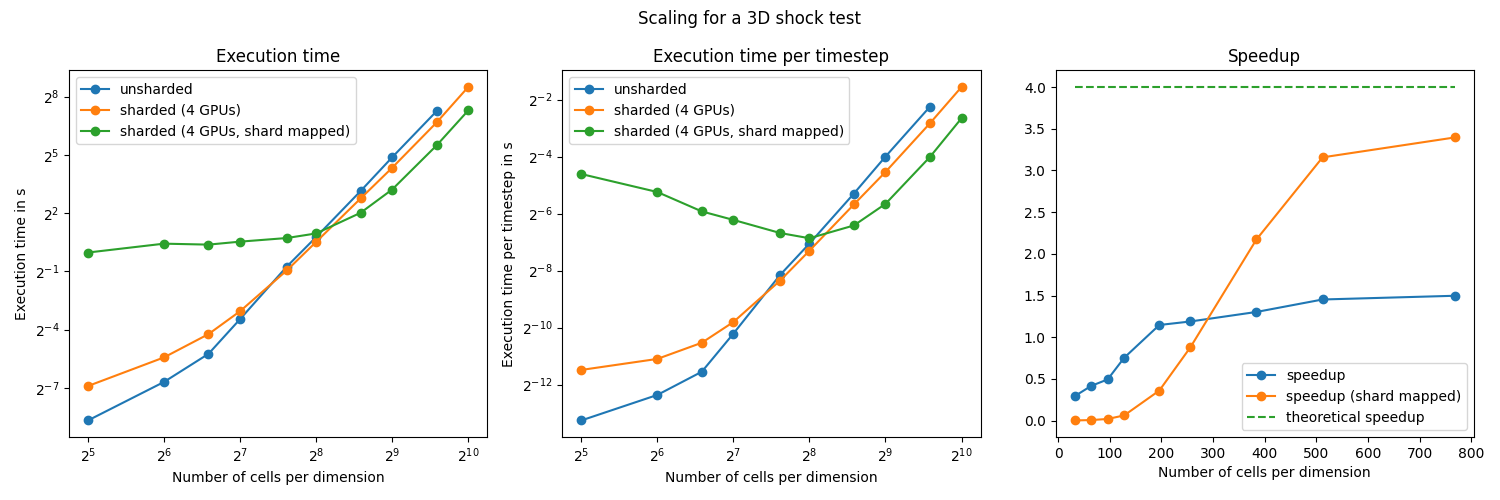
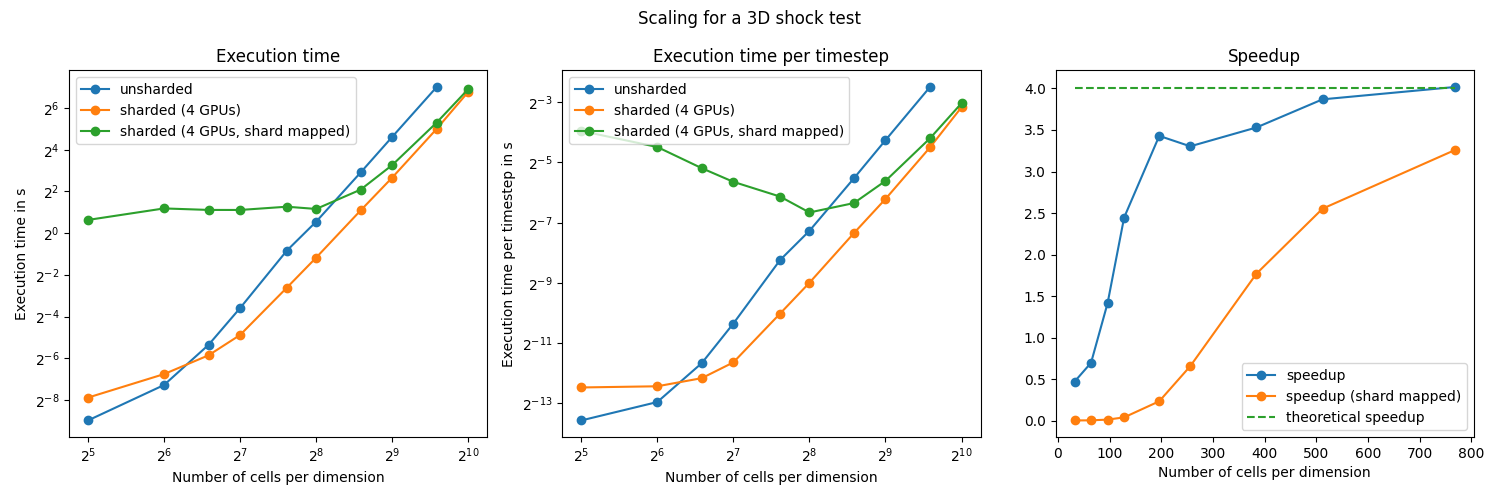
moved to jnp.roll

diff --git a/tinyfluids/jax_tinyfluids/fluid.py b/tinyfluids/jax_tinyfluids/fluid.py
@@ -339,8 +339,12 @@ def _cfl_time_step(
     # ==================== ↓ cell communication here ↓ ===================
 
     # wave speeds in x direction
-    primitive_state_left = jax.lax.slice_in_dim(primitive_state, 0, -1, axis = X_AXIS)
-    primitive_state_right = jax.lax.slice_in_dim(primitive_state, 1, None, axis = X_AXIS)
+    # primitive_state_left = jax.lax.slice_in_dim(primitive_state, 0, -1, axis = X_AXIS)
+    # primitive_state_right = jax.lax.slice_in_dim(primitive_state, 1, None, axis = X_AXIS)
+
+    primitive_state_left = jnp.roll(primitive_state, shift = 1, axis = X_AXIS)
+    primitive_state_right = primitive_state
+
     max_wave_speed_x = get_max_wave_speeds(
         primitive_state_left,
         primitive_state_right,
@@ -349,8 +353,13 @@ def _cfl_time_step(
     )
 
     # wave speeds in y direction
-    primitive_state_left = jax.lax.slice_in_dim(primitive_state, 0, -1, axis = Y_AXIS)
-    primitive_state_right = jax.lax.slice_in_dim(primitive_state, 1, None, axis = Y_AXIS)
+    # primitive_state_left = jax.lax.slice_in_dim(primitive_state, 0, -1, axis = Y_AXIS)
+    # primitive_state_right = jax.lax.slice_in_dim(primitive_state, 1, None, axis = Y_AXIS)
+
+    primitive_state_left = jnp.roll(primitive_state, shift = 1, axis = Y_AXIS)
+    primitive_state_right = primitive_state
+
+
     max_wave_speed_y = get_max_wave_speeds(
         primitive_state_left,
         primitive_state_right,
@@ -359,8 +368,13 @@ def _cfl_time_step(
     )
 
     # wave speeds in z direction
-    primitive_state_left = jax.lax.slice_in_dim(primitive_state, 0, -1, axis = Z_AXIS)
-    primitive_state_right = jax.lax.slice_in_dim(primitive_state, 1, None, axis = Z_AXIS)
+    # primitive_state_left = jax.lax.slice_in_dim(primitive_state, 0, -1, axis = Z_AXIS)
+    # primitive_state_right = jax.lax.slice_in_dim(primitive_state, 1, None, axis = Z_AXIS)
+
+    primitive_state_left = jnp.roll(primitive_state, shift = 1, axis = Z_AXIS)
+    primitive_state_right = primitive_state
+
+
     max_wave_speed_z = get_max_wave_speeds(
         primitive_state_left,
         primitive_state_right,
@@ -394,20 +408,39 @@ def _evolve_state_along_axis(
     conservative_states = conserved_state_from_primitive(primitive_state, gamma)
 
     # ==================== ↓ cell communication here ↓ ===================
-    primitive_state_left = jax.lax.slice_in_dim(primitive_state, 0, -1, axis = axis)
-    primitive_state_right = jax.lax.slice_in_dim(primitive_state, 1, None, axis = axis)
+    # primitive_state_left = jax.lax.slice_in_dim(primitive_state, 0, -1, axis = axis)
+    # primitive_state_right = jax.lax.slice_in_dim(primitive_state, 1, None, axis = axis)
+
+    # primitive state
+    #          |0|1|2|3|4|
+    # roll 1   |4|0|1|2|3|
+    # roll -1  |1|2|3|4|0|
+
+    primitive_state_left = jnp.roll(primitive_state, shift = 1, axis = axis)
+    primitive_state_right = primitive_state
 
     fluxes = _hll_solver(primitive_state_left, primitive_state_right, gamma, axis)
 
+    # this will have the flux between 1 and 2 at 2
+    # this will have the flux between 2 and 3 at 3
+
+
     # update the conserved variables
-    conserved_change = -1 / grid_spacing * (
-        jax.lax.slice_in_dim(fluxes, 1, None, axis = axis) - 
-        jax.lax.slice_in_dim(fluxes, 0, -1, axis = axis)
+    # conserved_change = -1 / grid_spacing * (
+    #     jax.lax.slice_in_dim(fluxes, 1, None, axis = axis) - 
+    #     jax.lax.slice_in_dim(fluxes, 0, -1, axis = axis)
+    # ) * dt
+
+    # conservative_states = conservative_states.at[
+    #     tuple(slice(1, -1) if i == axis else slice(None) for i in range(conservative_states.ndim))
+    # ].add(conserved_change)
+
+    conserved_change = 1 / grid_spacing * (
+        fluxes - jnp.roll(fluxes, shift = -1, axis = axis)
     ) * dt
 
-    conservative_states = conservative_states.at[
-        tuple(slice(1, -1) if i == axis else slice(None) for i in range(conservative_states.ndim))
-    ].add(conserved_change)
+    conservative_states = conservative_states + conserved_change
+
     # ==================== ↑ cell communication here ↑ ===================
 
     primitive_state = primitive_state_from_conserved(conservative_states, gamma)

diff --git a/tinyfluids/jax_tinyfluids/time_integration.py b/tinyfluids/jax_tinyfluids/time_integration.py
@@ -67,7 +67,7 @@ def _time_integration_inner(
 
         # the wave speed calculation is currently done twice, once
         # for finding dt and once for the state update, which
-        # is not optimal
+        # is not optimal, TODO: merge
         dt = _cfl_time_step(primitive_state, grid_spacing, gamma)
 
         if shard_mapped:

diff --git a/README.md b/README.md
@@ -4,7 +4,8 @@ tinyfluids aims to contain a collection of small, simple 3D fluid simulators (fi
 
 ## jax_tinyfluids - the baseline
 
-Our [baseline implementation](tinyfluids/jax_tinyfluids/jax_tinyfluids.py) in `JAX` scales to multiple GPUs (and nodes) automatically via `JAX`'s "parallelization follows data" approach and sharding of the initial conditions. We have also implemented a shard map parallelization strategy with halo exchange. Scaling strongly depends on the devices used, the scaling plot below was generated on 4 NVIDIA H100s. Scaling up to x2.6 was achieved for the baseline parallelization on H200 but as of busy computational ressources I could not test the scaling there for the shard-mapped parallelization strategy. My current guess is that just jitting has a pretty significant memory exchange overhead - I also tried to test this on lower-end GPUs (with slower inter-device communication) where scaling with shard map still worked ok but via only jitting, runtimes were usually longer than for a single GPU run. Looking at the JAXFLUIDS paper, they seem to get ideal speedups, while we only get up to ~3.5 here. One reason might be that the per shard computations are currently as simple as possible (1st order godunov) so communication overhead becomes more significant.
+Our [baseline implementation](tinyfluids/jax_tinyfluids/jax_tinyfluids.py) in `JAX` scales to multiple GPUs (and nodes) automatically via `JAX`'s "parallelization follows data" approach. With this we nearly get perfect scaling at sufficiently large problem sizes. NOTE THAT WHEN USING SLICING AND NOT JNP.ROLL, SCALING WILL BE VERY BAD. This led me to write a custom shardmapped version in the first place - which scales well but not as well as pure jax with only jnp.roll.
+
 
 | ![Scaling Plot](figures/scaling_results.png) |
 |:--------------------------------------------:|
